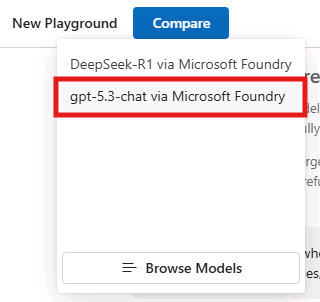
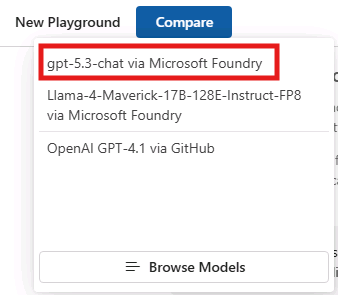
Reviewing chapter 1-2-4 after AITK update

diff --git a/lab/instructions/04_Agent_Building.md b/lab/instructions/04_Agent_Building.md
@@ -4,34 +4,29 @@ In this section, you will learn how to create the Cora agent with Agent Builder 
 
 ## Step 1: Explore Agent Builder
 
-To access Agent Builder, in the AI Toolkit view, locate the **Build** section under **Development Tools**. Expand it and click on **Create Agent**. Next, select **Design with Builder** to open the Agent Builder interface in a new tab within Visual Studio Code.
+To access Agent Builder, in the AI Toolkit view, locate the **Build** section under **Developer Tools**. Expand it and click on **Create Agent**. Next, select **Open Agent Builder** to open the Agent Builder interface in a new tab within Visual Studio Code.
 
 ![Create New Agent](../../img/create-new-agent.png)
 
-<!--![Agent Builder](../../img/agent-builder.png)-->
+Agent Builder's UI is organized into two sections. The left side of Agent Builder enables you to define the basic information for the agent such as its name, model choice, instructions, and any relevant tools. The right side of Agent Builder is where you can both chat with the agent and test its responses.
 
-Agent Builder's UI is organized into two sections. The left side of Agent Builder enables you to define the basic information for the agent such as its name, model choice, instructions, and any relevant tools. The right side of Agent Builder is where you can both chat with the agent and evaluate the agent's responses.
-
-> [!NOTE]
-> The **Evaluation** features are only available once you've defined a variable within your agent's **Instructions**. Evaluations are further explored in the **Bonus** section of this lab.
->
+![Agent Builder](../../img/agent-builder.png)
 
 ## Step 2: Create the Agent
 
 Let's create Zava's Cora agent! Within the **Agent name** field, enter **Cora**. For the agent's **Model**, select the **gpt-5.3-chat (via Microsoft Foundry)** model instance.
-
-<!--![Agent Basic Information](../../img/agent-basic-information.png)-->
 
 ## Step 3: Provide Instructions for the Agent
 
 Similarly to what we've previously done in the Model Playground, we'll now need to define the behavior of the agent, through the system prompt. 
 
 > [!TIP]
-> The Agent Builder provides a **Generate** feature that uses a large language model (LLM) to generate a set of instructions from a description of your agent's task. 
-> It also offers a **Inspire** feature that provides a sample set of instructions that you can use as a starting point for your agent.
+> The Agent Builder provides a **Generate** feature that uses a large language model (LLM) to generate a set of instructions from a description of your agent's task.
+> It also offers a **Inspire me** feature that provides a sample set of instructions that you can use as a starting point for your agent.
 > Both features are helpful if you need guidance in crafting the agent's instructions.
 
-<!-->![Generate Agent Instruction](../../img/generate-agent-instruction.png)-->
+![Generate Agent Instruction](../../img/generate-agent-instruction.png)
+
 
 For the sake of this lab, we'll leverage a set of instructions similar to the one we used in the [previous section](./03_Model_Augmentation.md):
 
@@ -161,10 +156,6 @@ I’m the store manager. Identify what’s in the photo, then find the closest m
 ```
 
 ![Agent Builder Playground](../../img/agent-builder-playground.png)
-
-If the agent wants to call a tool, a notification will appear in Visual Studio Code requesting to run one or more tools (for example, `semantic_search_products`). Select **Yes** to execute each tool call. In a production app, you typically only require approval for sensitive actions.
-
-![Yes run tool.](../../img/yes-run-tool.png)
 
 Assuming the agent executes a tool call, a section appears in the agent output indicating which tool was invoked.
 

diff --git a/lab/instructions/02_Model_Selection.md b/lab/instructions/02_Model_Selection.md
@@ -25,7 +25,7 @@ Since the list is quite consistent, you can use the filtering options to narrow 
 ### Filter by Publisher
 
 1. Click on the **Publisher** filter dropdown to filter by the model publisher, such as Microsoft, Meta, Cohere, etc. Note that you can find both open-source and proprietary models.
-2. Select **DeepSeek** to view models from this leading provider.
+2. Select **Meta** to view models from this leading provider.
 
 ### Filter by Model Feature
 
@@ -35,19 +35,20 @@ Since the list is quite consistent, you can use the filtering options to narrow 
 ## Step 2: Deploy Models to Your Subscription
 
 After applying filters, you'll see a refined list of models.
-Locate **Deep Seek R1** in the filtered results. It's a multimodal model with strong reasoning capabilities, using a step-by-step training process.
+Locate **Llama-4-Maverick-17B-128E-Instruct-FP8** in the filtered results. It's a multimodal model with good reasoning capabilities.
 
 2. Click **Deploy** on the model tile to open the deployment configuration window.  
 
 ![Add Model](../../img/add_model.png)
 
-3. Drag the slider of the **Token Per Minute** rate to the right to increase it to 115K. Leave the other parameters as default and click on **Deploy to Microsoft Foundry** to provision an instance of the model to your subscription.
+3. Drag the slider of the **Token Per Minute** rate to the right to increase it to 120K. Leave the other parameters as default and click on **Deploy to Microsoft Foundry** to provision an instance of the model to your subscription.
 
 ![Deployment Configuration](../../img/deployment_configuration.png)
 
 ## Step 3: Open the Playground for Testing
 
 1. In the left sidebar, locate the **My Resources** section and expand the resources under your Microsoft Foundry project.
+1. Under the **Models** section, you should see the model instance you just deployed. You should also see a pre-deployed instance of **gpt-5.3-chat** for comparison testing later on and an instance of **text-embedding-3-small** that we will use in the next section for vector search and retrieval augmented generation.
 1. Right-click on the model instance you just deployed and then select **Open in Playground** from the dropdown menu to start testing the model in the Playground interface.
 ![Try in playground](../../img/try_in_playground.png)
 

diff --git a/lab/instructions/01_Get_Started.md b/lab/instructions/01_Get_Started.md
@@ -87,11 +87,11 @@ In this workshop, you'll also be using GitHub Copilot AI features in Visual Stud
 1. Click on the **Copilot** icon in the right bottom corner of the VS Code window, accompanied by the text "Signed out".
 1. Next, click on **Sign in to use AI features** -> **Continue with GitHub**.
 
-![GitHub Copilot Sign In](../../img/github_copilot_sign_in.png)
+    ![GitHub Copilot Sign In](../../img/github_copilot_sign_in.png)
 
 1. A new browser tab will open, prompting you to authorize VS Code. Click on **Continue** to sign-in with the same GHE account you used before.  In the next window, click on **Authorize Visual Studio Code**.
 
-![Authorize GitHub Copilot](../../img/authorize_github_copilot.png)
+    ![Authorize GitHub Copilot](../../img/authorize_github_copilot.png)
 
 1. A prompt will appear, notifying you that the website is trying to open Visual Studio Code. Click on **Open Visual Studio Code** to proceed and come back to your VS Code instance.
 
